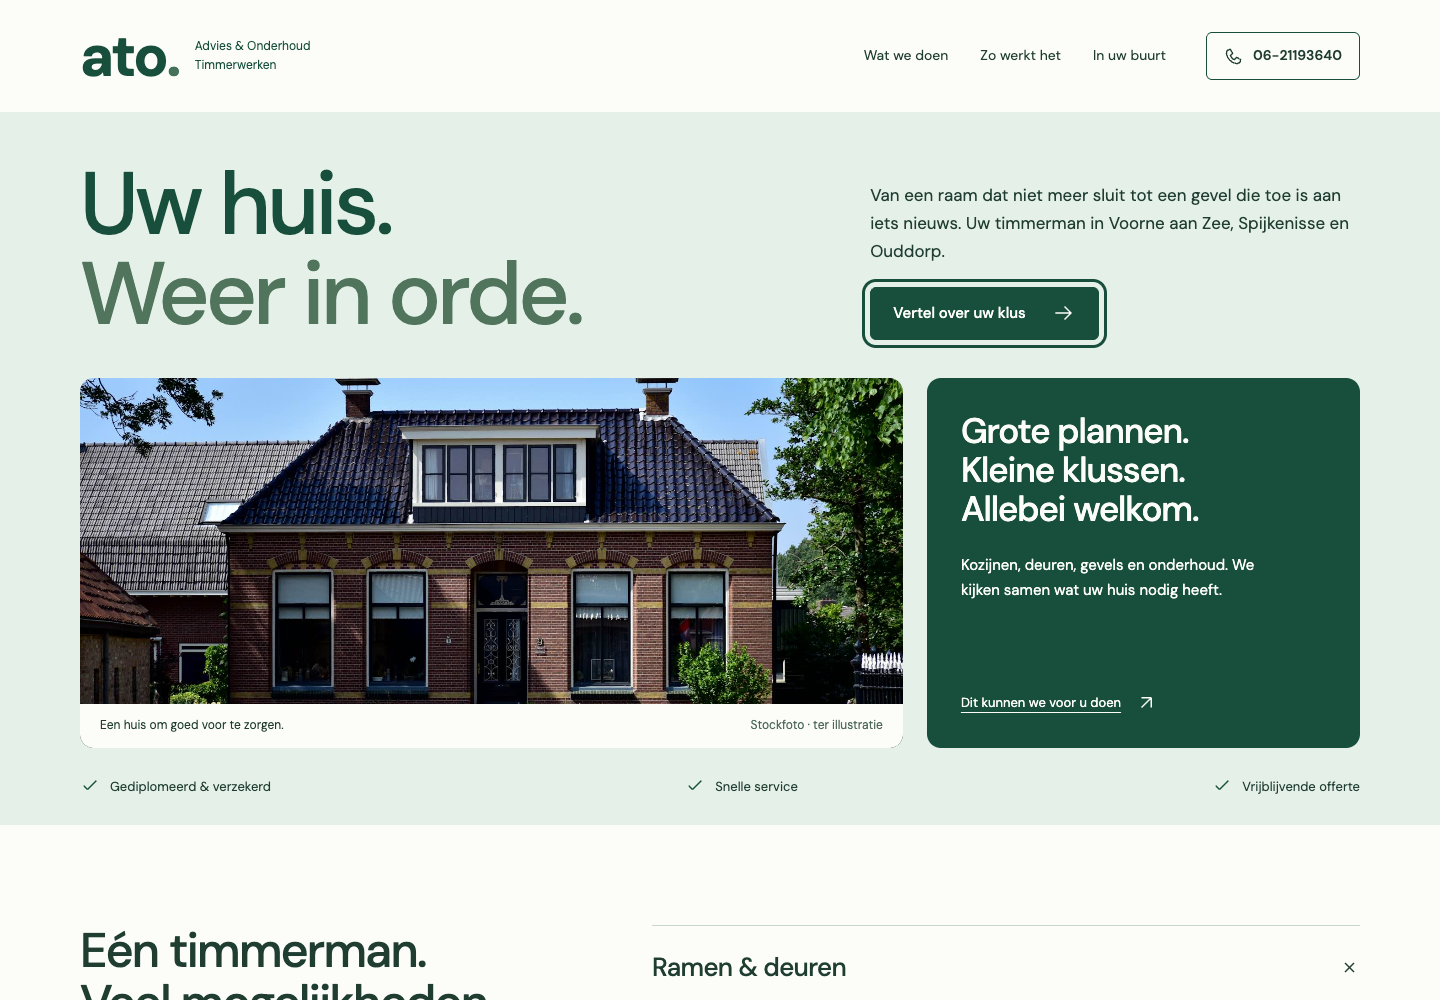
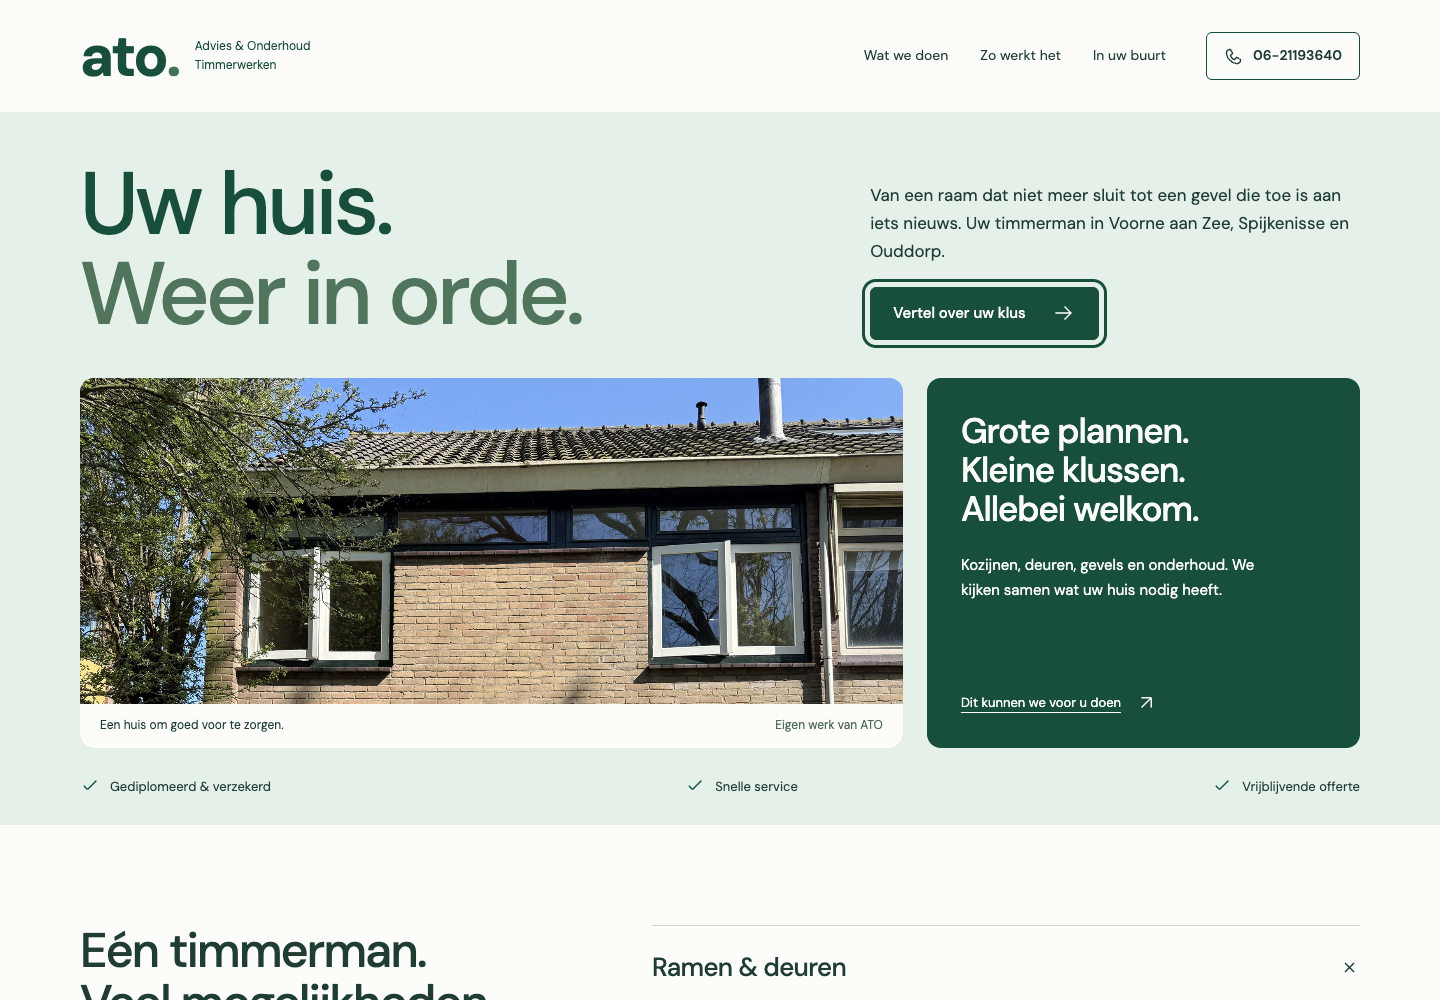
Handoff toegevoegd; schermafbeeldingen van de controle bijgewerkt

Changed region(s): [[0.0312, 0.372, 0.625, 0.744]]

diff --git a/HANDOFF.md b/HANDOFF.md
@@ -1,0 +1,59 @@
+# Handoff — website ATO Advies & Onderhoud
+
+Website voor de vader van Melvin (timmerbedrijf, Voorne aan Zee). Laatst bijgewerkt: 9 oktober 2026.
+
+## Stand
+
+Er liggen drie ontwerpen voor de homepage waaruit Melvins vader moet kiezen. Open `index.html` in de hoofdmap voor de links.
+
+| Ontwerp | Map | Gemaakt door |
+| --- | --- | --- |
+| Klassiek (blauw, opbouw van dehoutrotreparateur.nl) | `claude/klassiek/` | Claude |
+| Werkplaats (oranje en zwart) | `Codex/werkplaats/` | Codex |
+| Kust (frisgroen) | `Codex/kust/` | Codex |
+
+Alle drie hebben: echte foto's van eigen werk, een voor/na-schuif (kozijnhoek met houtrot), een projectenoverzicht met negen klussen (wisselen tussen voor, tijdens en na; filter op soort werk) en een offerte-hulp die een WhatsApp-bericht klaarzet.
+
+Verder in de repo:
+- `claude/ideeen/`: schetspagina met vijf interactieve ideeën. Gekozen: klikbaar huis (nog niet ingebouwd), offerte-hulp (ingebouwd) en voor/na-galerij (ingebouwd als projectenoverzicht).
+- `claude/modern/`: afgevallen ontwerp, staat er nog.
+- `docs/foto-inventaris.md`: alle 83 aangeleverde foto's, gegroepeerd in 21 klussen.
+- `fotos-aangeleverd/`: de originele foto's en uitsneden. Staat buiten git (223 MB, met adressen en personen). De bron is de Drive-map van Melvin.
+
+Controleren:
+```sh
+python3 tools/check-mockups.py                              # klassiek: teksten, links, bestanden
+cd Codex && TMPDIR="$PWD/.cache/tmp" node .qa/check.cjs     # kust en werkplaats in de browser
+```
+Beide slaagden op 9 oktober na de laatste wijziging. Foto's opnieuw maken: `python3 tools/fotos-exporteren.py`, daarna `python3 tools/projecten-bouwen.py`.
+
+## Besluiten
+
+- Gewone HTML en CSS, geen bouwstap. Elke ontwerpmap staat op zichzelf: geen verwijzingen naar bestanden daarbuiten (dat laadde niet in Safari).
+- Lettertypes worden lokaal meegeleverd; er gaat niets naar Google.
+- Alle tekst van klassiek staat in `content/nl.json` met `data-i18n`-sleutels in de HTML, als voorbereiding op een beheersysteem. De Codex-ontwerpen hebben hun eigen teksten.
+- Foto's: opnamegegevens verwijderd, huisnummers buiten beeld of onleesbaar, geen herkenbare mensen of interieurs van klanten.
+- Beloftes als garantietermijn, openingstijden en reviews staan er niet op zolang de eigenaar ze niet heeft bevestigd.
+- Geen Motion-bibliotheek en geen 3D-effecten.
+- Geen commits met Claude als medeauteur. Er is geen remote; niets is gepusht.
+
+## Open punten
+
+- **Safari:** alles is alleen in Chrome getest. Tim kijkt in Safari en heeft nog niet bevestigd dat de foto's en de knoppen daar werken.
+- **Beheersysteem:** Decap CMS zoals in `web-oostenrijk` leunt op Git Gateway van Netlify, en dat is afgeschreven. Eerste kandidaat is Pages CMS, nog niet getest. Voor de proef moet de repo naar GitHub.
+- **Schuif is onscherp:** de houtrotfoto's (IMG_4110 t/m 4116) zijn schermafbeeldingen.
+- **Plaatsnamen per klus ontbreken;** ze zitten niet in de foto's.
+- **Klikbaar huis:** in welk ontwerp, en mag het de dienstenlijst vervangen?
+- **Teksten** zijn een eerste opzet en niet door de eigenaar nagekeken.
+- **Omvang:** de git-map is ruim 30 MB doordat de foto's in drie ontwerpen staan.
+
+## Voor Tim
+
+1. De drie ontwerpen in Safari bekijken en melden wat niet werkt.
+2. Melvins vader laten kiezen tussen klassiek, werkplaats en kust.
+3. Bij Melvin opvragen: de originele houtrotfoto's, de plaats per klus, wat er bij de woning met dakkapel is gedaan, en of de klanten weten dat hun huis op de site komt.
+4. Beslissen: mag `claude/modern/` weg, blijft `Codex/` in git, en mag de repo naar GitHub voor de proef met Pages CMS?
+
+## Volgende stap
+
+Na de keuze van het ontwerp: de twee andere ontwerpen verwijderen, losse pagina's toevoegen (diensten, projecten, over ons, contact), het klikbare huis inbouwen als Tim dat wil, en het beheersysteem aansluiten.
